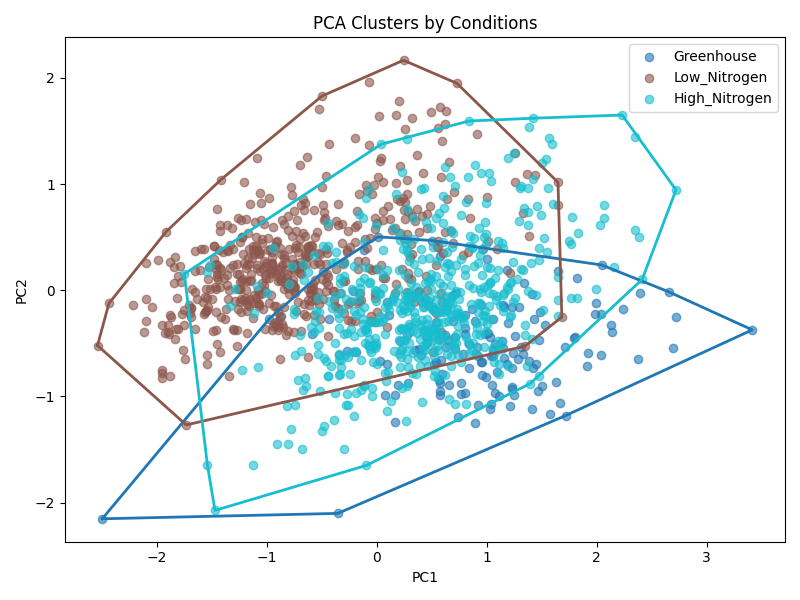
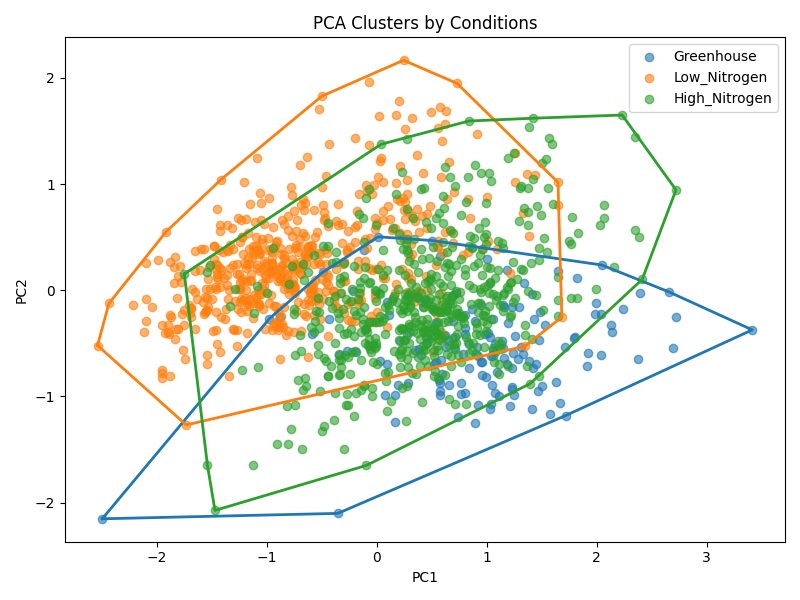
fixed colour error, furhter proof code

diff --git a/thesis/S2/data_analysis.py b/thesis/S2/data_analysis.py
@@ -778,7 +778,7 @@ class C_PCA:
         self.df['PC1'], self.df['PC2'] = X_pca[:, 0], X_pca[:, 1]
 
         fig, ax = plt.subplots(figsize=(8, 6))
-        colors = plt.cm.get_cmap('tab10', self.df[label_col].nunique())
+        colors = plt.colormaps['tab10'] 
 
         for i, condition in enumerate(self.df[label_col].unique()):
             subset = self.df[self.df[label_col] == condition]
